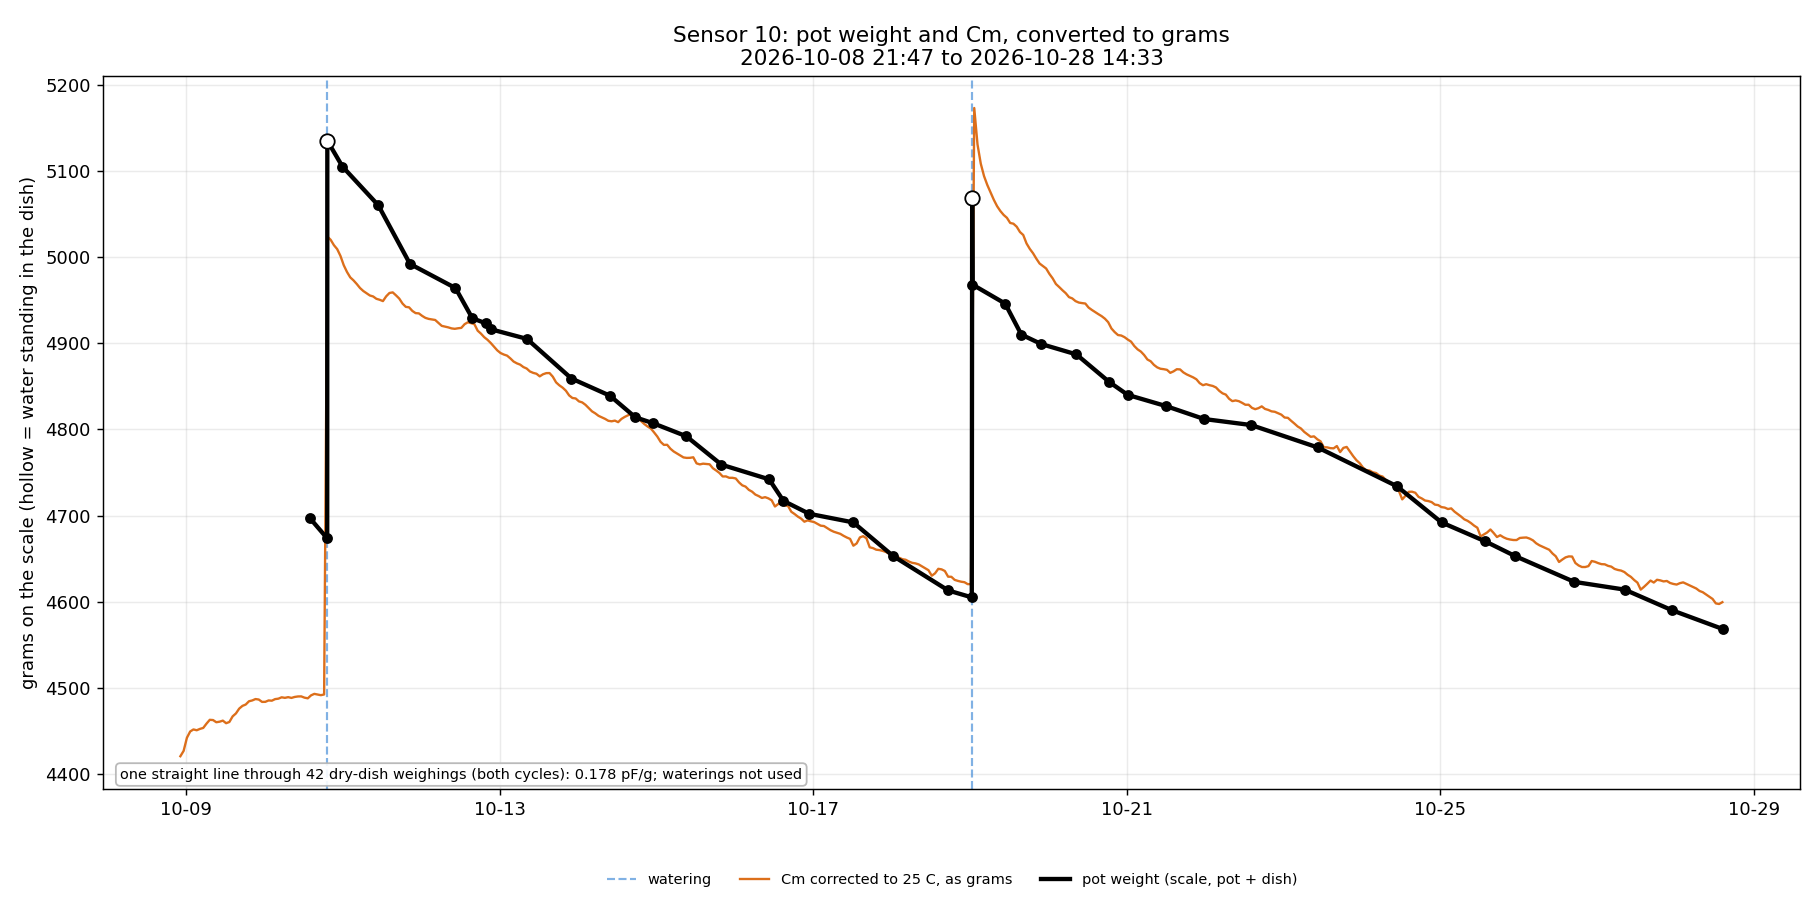
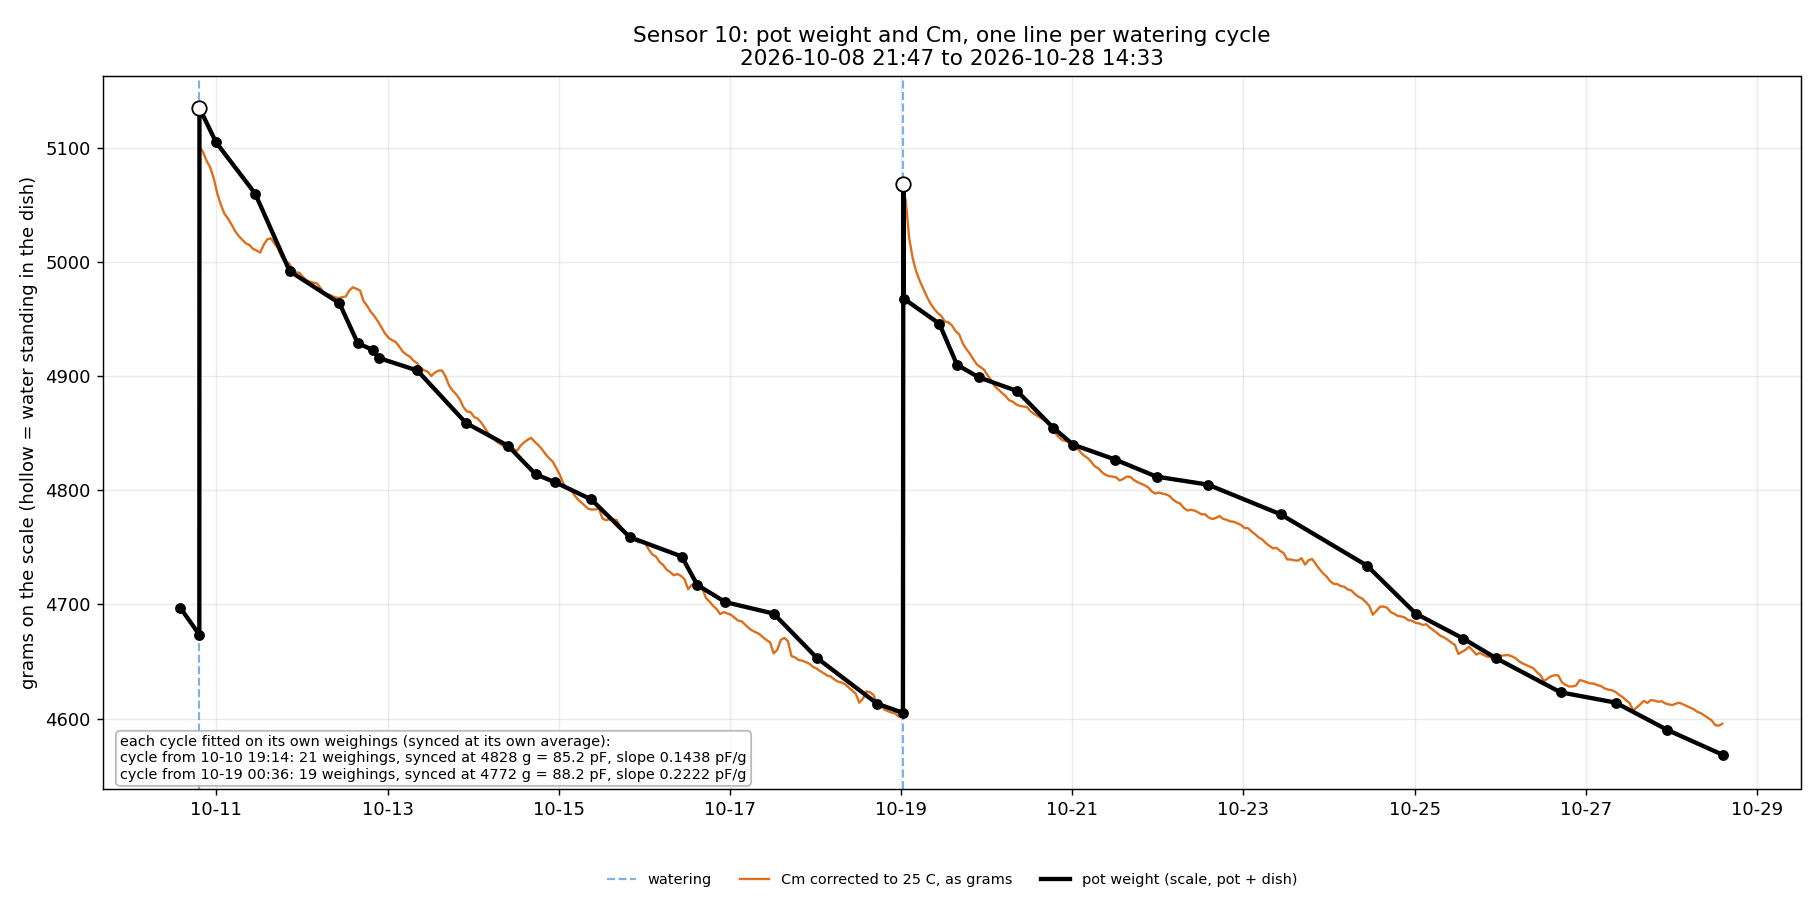
Mass vs reading plots: one fitted line per watering cycle
Each cycle's reading is converted by its own line through its own dry-dish
weighings, so it is synced to the scale at that cycle's average weight
(printed on the plot), with its own slope: number 11.7 then 14.74 units/g,
Cm 0.144 then 0.222 pF/g. The span before the first watering is not drawn.

diff --git a/MSV4/scripts/msv4_mass_vs_value_plot.py b/MSV4/scripts/msv4_mass_vs_value_plot.py
@@ -1,12 +1,14 @@
 """Pot mass over time against ONE reading, converted to grams the way msv4_moisture_plot.py does.
 
-Method (same as msv4_moisture_plot.py, which scores every candidate at once):
-  1. Take every weighing with no water standing in the dish (both cycles together), and pair each
-     with the hour of readings around it (the hour after, if it was weighed within 2 h of a watering).
-  2. Fit ONE straight line, reading = intercept + slope * (grams above the driest weighing), through
-     those pairs. The waterings are not used to calibrate.
-  3. Invert it: hourly median reading -> grams, then add the driest weighing back so the curve sits
-     on the scale's own axis. A reading that tracked the scale perfectly lies on the black curve.
+Method (same family as msv4_moisture_plot.py, but one line PER WATERING CYCLE):
+  1. Split the dry-dish weighings by watering cycle (from one watering to the next). Pair each with
+     the hour of readings around it (the hour after, if weighed within 2 h of a watering).
+  2. In each cycle fit its own straight line, reading = intercept + slope * grams. A least-squares
+     line passes through the average of its points, so that cycle's reading is synced to the scale at
+     the cycle's average weight (printed), with its own slope.
+  3. Invert each line over its own cycle only: hourly median reading -> grams. The segments are drawn
+     on the scale's axis against the weight curve. The span before the first watering is not drawn
+     (two weighings, no cycle to fit).
 
 Temperature correction is the repo's normal view: the number is as built (2 %/C), Cm is corrected
 to 25 C by the tip coefficient fitted on the first settled dry day. --raw uses uncorrected Cm.
@@ -36,7 +38,7 @@ import msv4_moisture_tempcorr as tempcorr
 NL = chr(10)
 
 
-def fit_line(pairs, value, dry):
+def _unused_fit_line(pairs, value, dry):
     points = []
     for p in pairs:
         data = [v for v in (value(r) for r in p["rows"]) if v is not None]
@@ -90,29 +92,43 @@ def main() -> None:
     corrected = {name: value for name, _, value in tempcorr.corrected_candidates(days[0])[0]}
     raw = {name: value for name, _, value in comp.CANDIDATES}
     pairs = [p for p in comp.pair(rows, merged, waterings) if not p["excluded"] and p["saucer"] is False]
-    dry = min(p["grams"] for p in pairs)
     t0 = rows[0]["time"]
+    bounds = list(waterings) + [rows[-1]["time"] + timedelta(hours=1)]
     out_dir = args.out_dir or args.csv.parent
 
-    def curve(label, value, color):
-        slope, intercept, n = fit_line(pairs, value, dry)
-        hours = comp.hourly(rows, value)
-        line = [(t0 + timedelta(hours=h + 0.5), dry + (m - intercept) / slope) for h, m, _ in hours]
-        return (label, line, color), slope, n
+    def cycle_curves(label, value, color, unit):
+        """One segment per watering cycle, each from its own line; returns curves and the notes."""
+        curves, notes = [], []
+        for k in range(len(waterings)):
+            lo, hi = bounds[k], bounds[k + 1]
+            cyc = [p for p in pairs if lo <= p["time"] < hi]
+            pts = []
+            for p in cyc:
+                data = [v for v in (value(r) for r in p["rows"]) if v is not None]
+                if len(data) >= comp.MIN_PAIR_READINGS:
+                    pts.append((p["grams"], statistics.median(data)))
+            if len(pts) < 3:
+                continue
+            gs, vs = [g for g, _ in pts], [v for _, v in pts]
+            slope, intercept = statistics.linear_regression(gs, vs)
+            line = [(t0 + timedelta(hours=h + 0.5), (m - intercept) / slope)
+                    for h, m, _ in comp.hourly(rows, value) if lo <= t0 + timedelta(hours=h + 0.5) < hi]
+            curves.append((label if not curves else None, line, color))
+            notes.append(f"cycle from {lo:%m-%d %H:%M}: {len(pts)} weighings, synced at {statistics.mean(gs):.0f} g = "
+                         f"{statistics.mean(vs):,.1f} {unit}, slope {slope:.4g} {unit}/g")
+        return curves, notes
 
-    number = corrected["moisture number in use (as built, 2%/C)"]
-    c, slope, n = curve("moisture number in use (as built), as grams", number, "#1f77b4")
-    print(f"number: {slope:.4g} units/g from {n} weighings")
-    note = f"one straight line through {n} dry-dish weighings (both cycles): {slope:.4g} units/g; waterings not used"
-    figure(rows, merged, waterings, [c], f"Sensor {sensor}: pot weight and the moisture number, converted to grams",
-           out_dir / "msv4_mass_vs_moisture_number.png", note)
-
-    cm_value = raw["contact capacitance Cm"] if args.raw else corrected["contact capacitance Cm + fitted temp"]
-    c, slope, n = curve("Cm " + ("raw" if args.raw else "corrected to 25 C") + ", as grams", cm_value, "#d95f02")
-    print(f"Cm: {slope:.4g} pF/g from {n} weighings")
-    note = f"one straight line through {n} dry-dish weighings (both cycles): {slope:.4g} pF/g; waterings not used"
-    figure(rows, merged, waterings, [c], f"Sensor {sensor}: pot weight and Cm, converted to grams",
-           out_dir / "msv4_mass_vs_cm.png", note)
+    for name, value, label, color, unit, title, file in (
+        ("number", corrected["moisture number in use (as built, 2%/C)"], "moisture number in use (as built), as grams",
+         "#1f77b4", "units", "the moisture number", "msv4_mass_vs_moisture_number.png"),
+        ("Cm", raw["contact capacitance Cm"] if args.raw else corrected["contact capacitance Cm + fitted temp"],
+         "Cm " + ("raw" if args.raw else "corrected to 25 C") + ", as grams", "#d95f02", "pF", "Cm", "msv4_mass_vs_cm.png"),
+    ):
+        curves, notes = cycle_curves(label, value, color, unit)
+        for line in notes:
+            print(name, line)
+        figure(rows, merged, waterings, curves, f"Sensor {sensor}: pot weight and {title}, one line per watering cycle",
+               out_dir / file, "each cycle fitted on its own weighings (synced at its own average):" + NL + NL.join(notes))
 
 
 if __name__ == "__main__":
